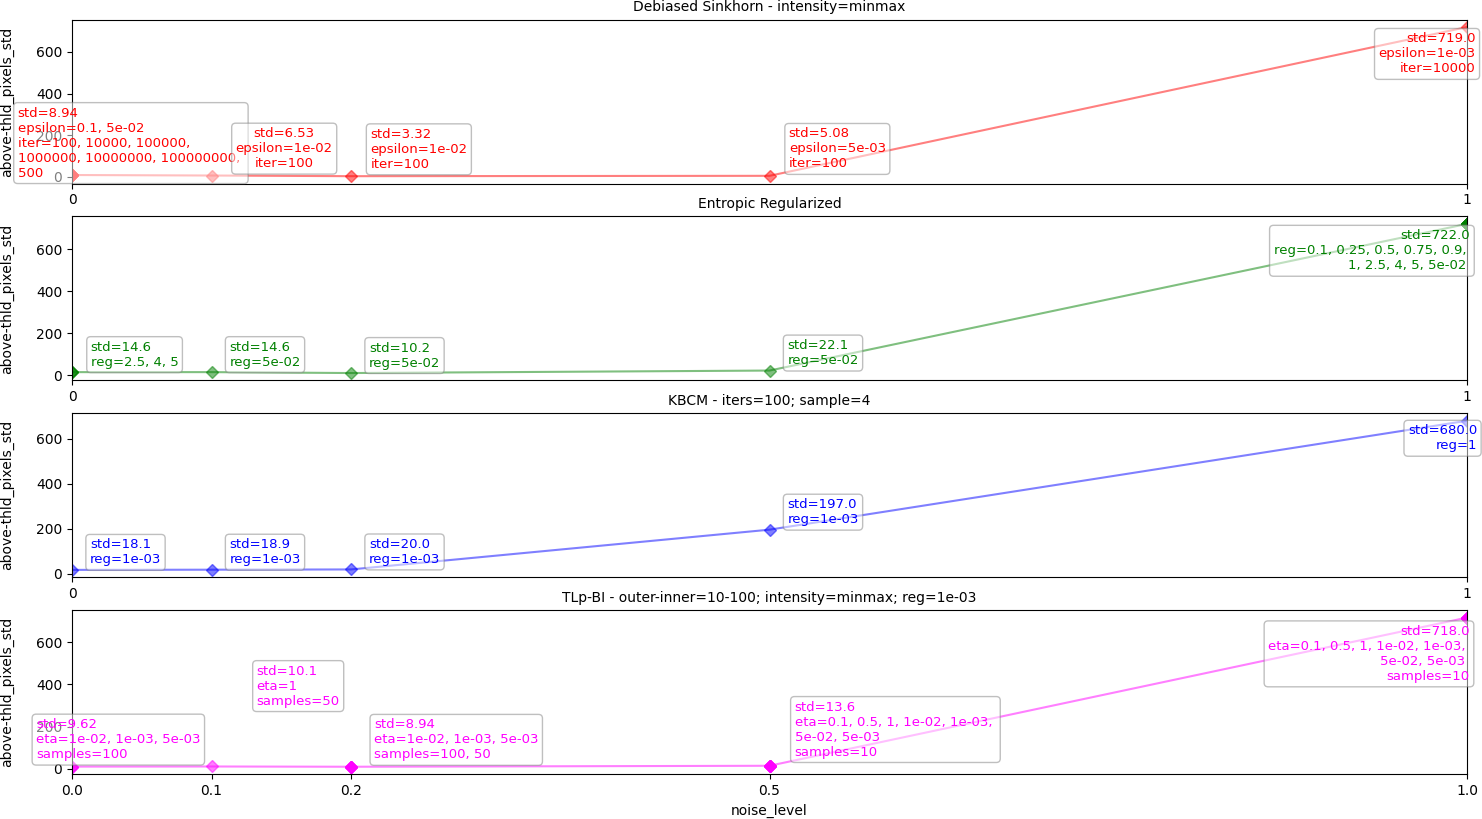
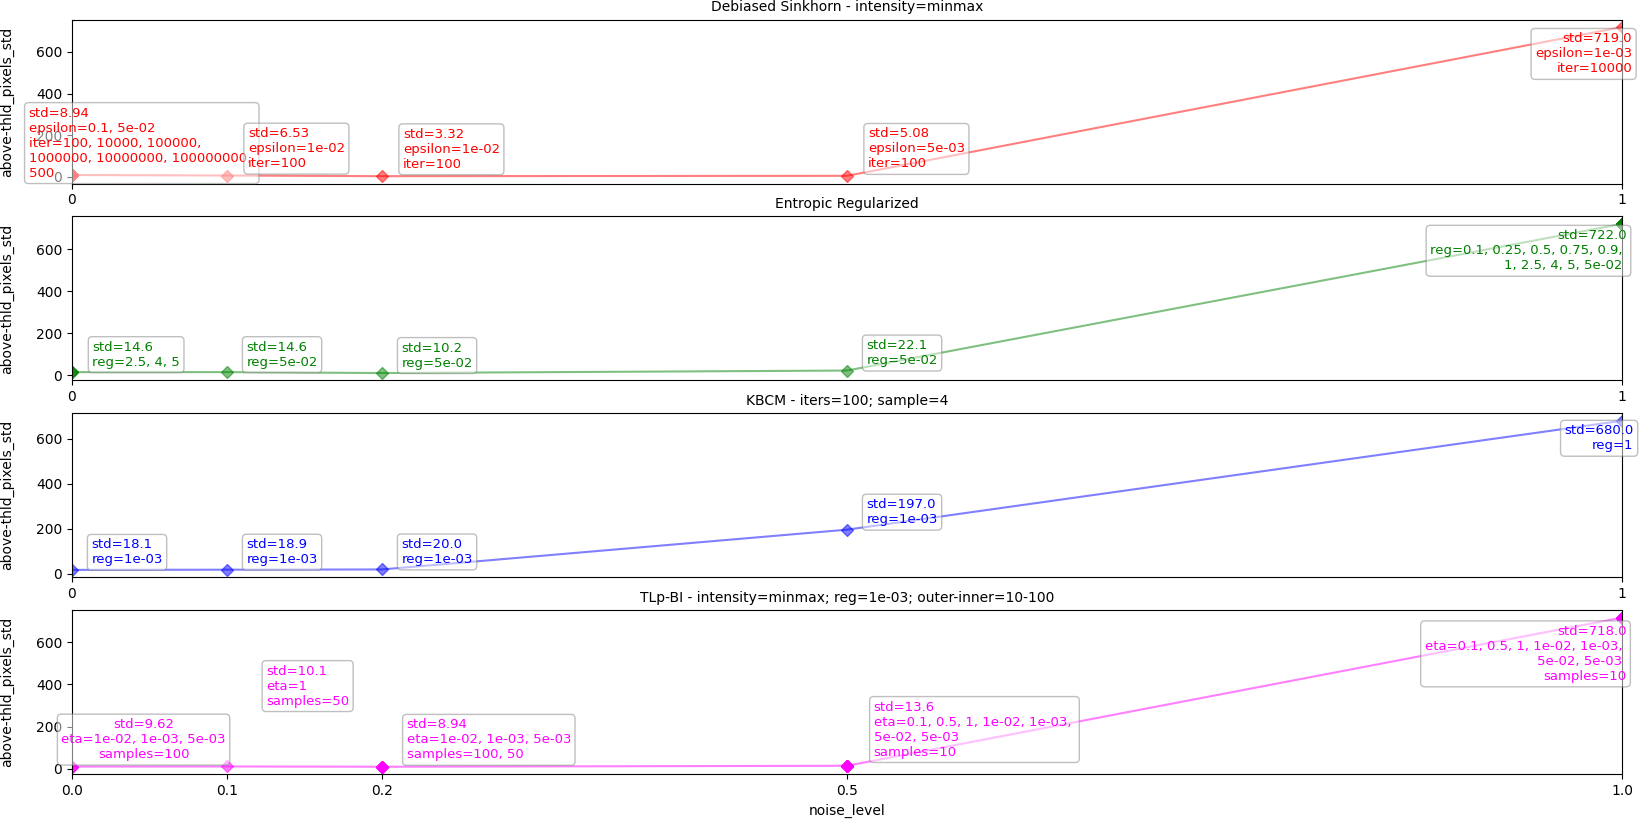
deliverable_clean

diff --git a/deliverable_clean/comparison_criteria/plot_bests.py b/deliverable_clean/comparison_criteria/plot_bests.py
@@ -23,7 +23,7 @@ def plot_bests(path="./results", show=False, save=True) :
         algos = sorted(df["algorithm"].unique())
         noise_lvls = sorted(df["noise_level"].unique())
         
-        plt.figure(1,figsize=(13,8))
+        plt.figure(1,figsize=(12,12))
 
         i = 0
         for algo in algos :

diff --git a/deliverable_clean/comparison_criteria/compare.py b/deliverable_clean/comparison_criteria/compare.py
@@ -355,7 +355,7 @@ def make_plot(df,
 
     nb_algo = len(sub_df["algorithm"].unique())
 
-    plt.figure(1, figsize=(18, 1 + 2.2 * nb_algo))
+    plt.figure(1, figsize=(20, 1 + 2.2 * nb_algo))
     colors = ["red", "green", "blue", "magenta", "orange", "cyan"]
     i = 0
 
